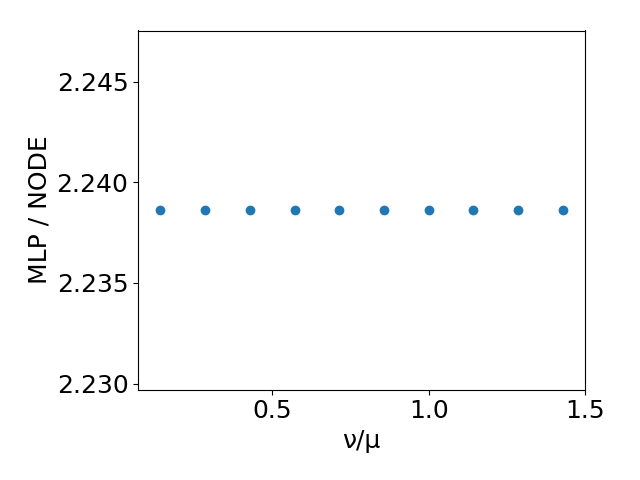
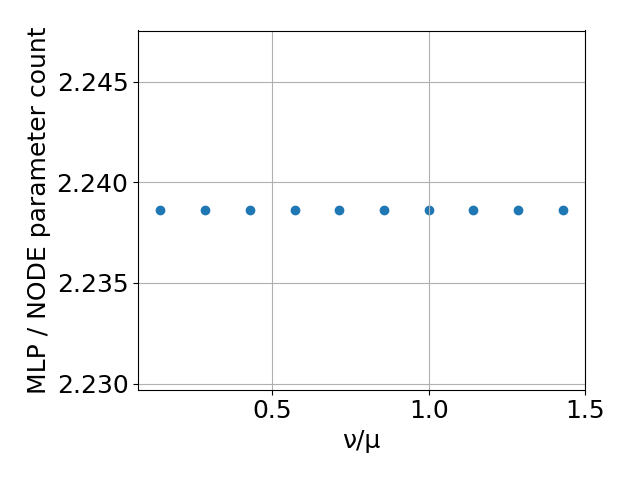
update

diff --git a/efficient_graph.py b/efficient_graph.py
@@ -13,7 +13,8 @@ plt.scatter(x, y)  # 予測，オレンジ
 #plt.plot(phi_predict, label="predict")  # 予測Φ，緑
 #plt.title()
 plt.xlabel("ν/μ")
-plt.ylabel("MLP / NODE")
+plt.ylabel("MLP / NODE parameter count")
+plt.grid(True)  # 目盛の表示
 #plt.legend()
 plt.tight_layout()
 plt.savefig("png/" + name + ".png")
